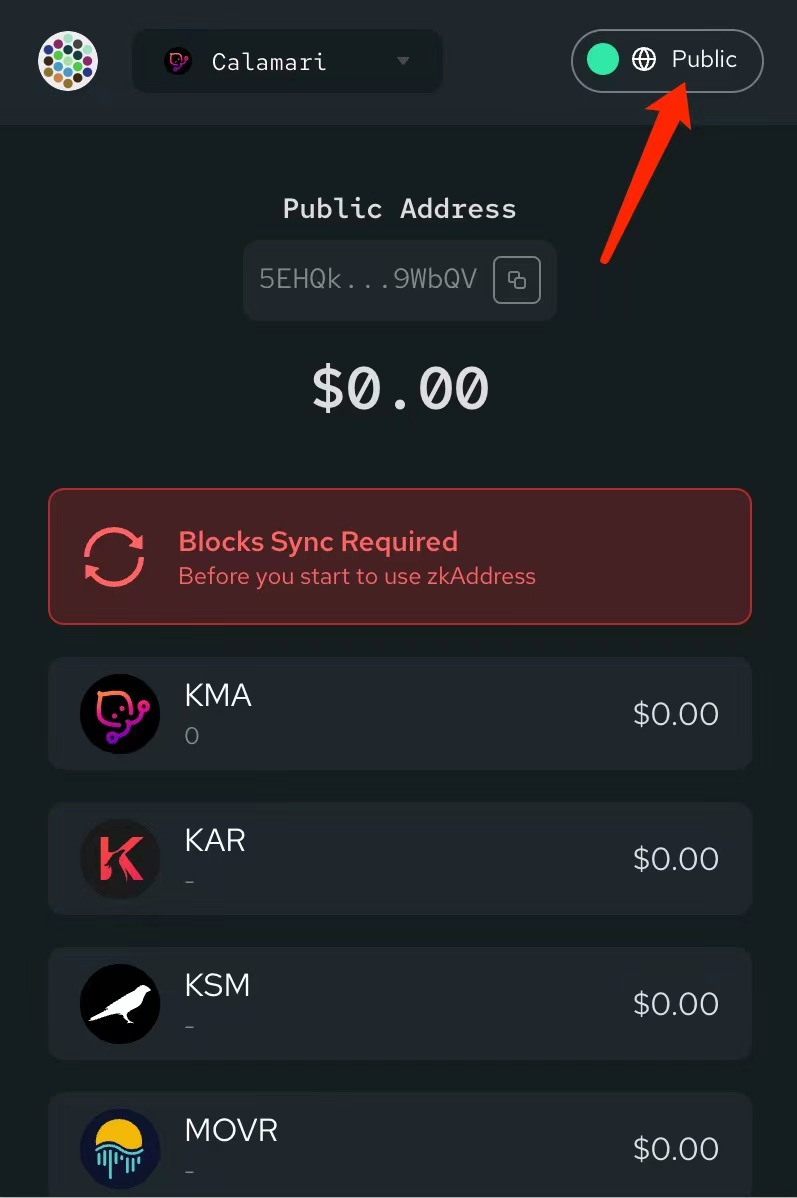
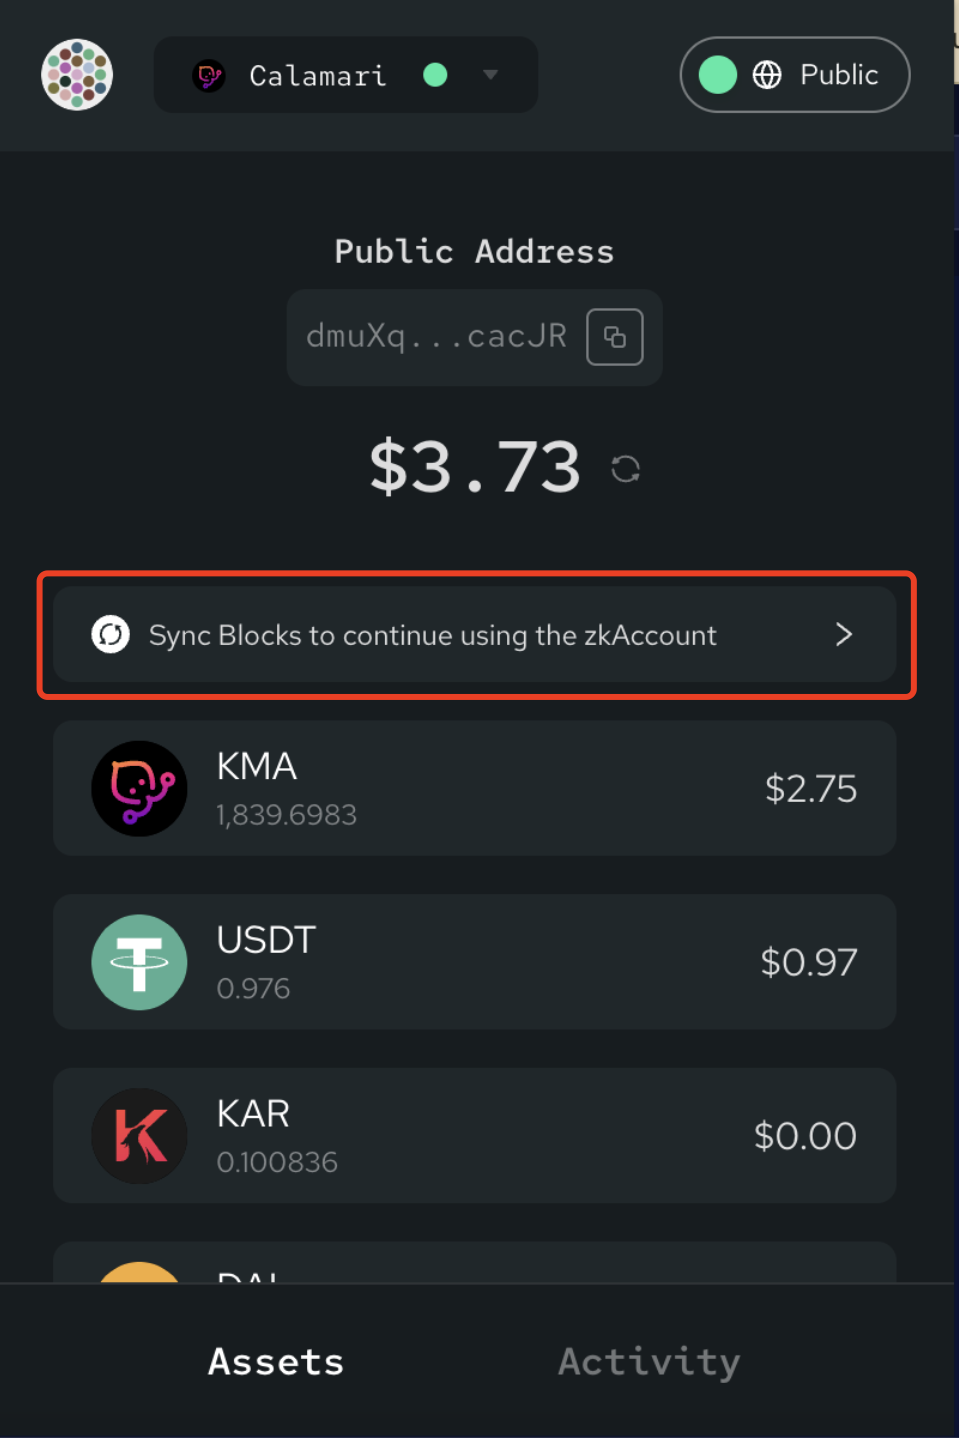
update wallet get started

diff --git a/docs/guides/MantaWallet.md b/docs/guides/MantaWallet.md
@@ -42,21 +42,21 @@ You will be brought to a page that displays your secret recovery phrase. Click t
 Write down your recovery phrase offline, somewhere hidden and secure. It is the only way to recover your assets if you lose access to your computer or forget your password!
 :::
 
-
-After you have created your account, you will be brought to the home page. And for the first time you need to sync zkAssets manually.
-
+Once your account is established, you'll be redirected to the home page. You can start using the public account right away with no further actions necessary, for activities such as utilizing Manta Wallet in Bridge, Staking, or NPO.
 <br/>
 
    <div style={{textAlign: 'center'}}>
     <img alt="sync-data" src="/img/guides/manta-wallet/sync-data.png" width="50%"/>
    </div>
 <br/>
-
-And after the sync is finished. You can switch to zkAssets and starting to use it.
+However, if you wish to use a zkAccount—for instance, to perform a "public to private", "private to public" or “private to private” transaction in MantaPay—you need to execute a few more steps. First, click on "Sync blocks to continue using the zkAccount" and switch over to the zkAccount. Subsequently, hit the "Blocks Sync Required" button to synchronize blocks. Once synchronization is complete, you are ready to use the zkAccount.
 
 <br/>
-
    <div style={{textAlign: 'center'}}>
     <img alt="sync-data" src="/img/guides/manta-wallet/switch-zk.png" width="50%"/>
    </div>
 <br/>
+
+   <div style={{textAlign: 'center'}}>
+    <img alt="sync-data" src="/img/guides/manta-wallet/switch-zk2.png" width="50%"/>
+   </div>
